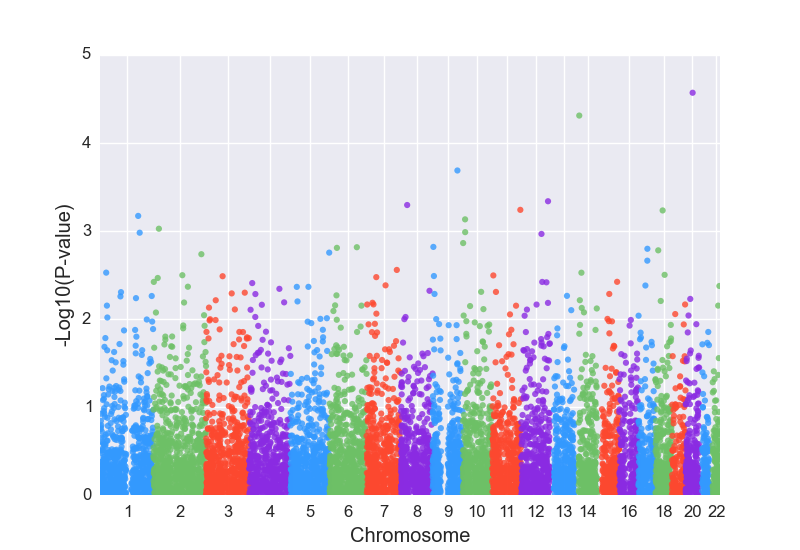
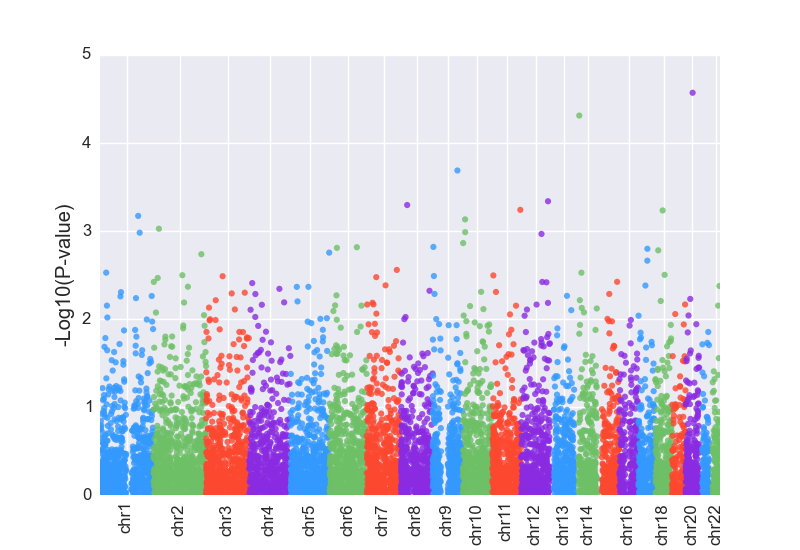
add a parameters for manhattanplot

diff --git a/examples/ex_manhattan.py b/examples/ex_manhattan.py
@@ -6,11 +6,12 @@ import matplotlib.pyplot as plt
 sys.path.append('..')  
 import geneview as gv
 
-xtick = map(str, range(1, 15) + ['16','18', '20','22'])
+xtick = ['chr'+c for c in map(str, range(1, 15) + ['16', '18', '20', '22'])]
 df = gv.util.load_dataset('GOYA_preview')
 gv.gwas.manhattanplot(df[['chrID','position','pvalue']], 
                       xlabel="Chromosome", 
-                      ylabel="-Log10(P-value)", 
+                      ylabel="-Log10(P-value)",
+                      xticklabel_kws={'rotation': 'vertical'},
                       xtick_label_set = set(xtick))
 plt.savefig('manhattan.png')
 plt.show()
